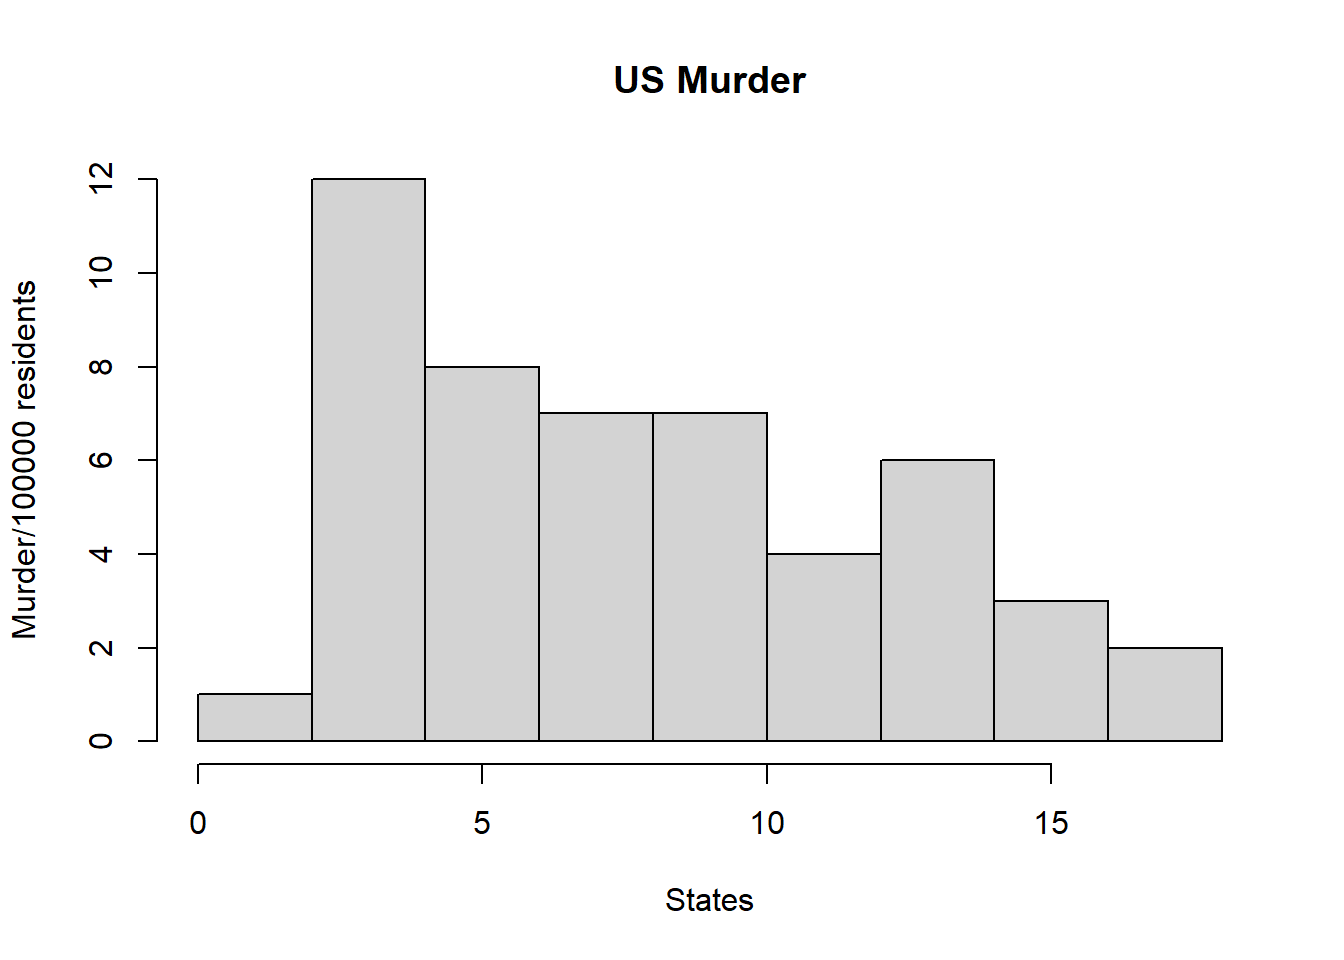
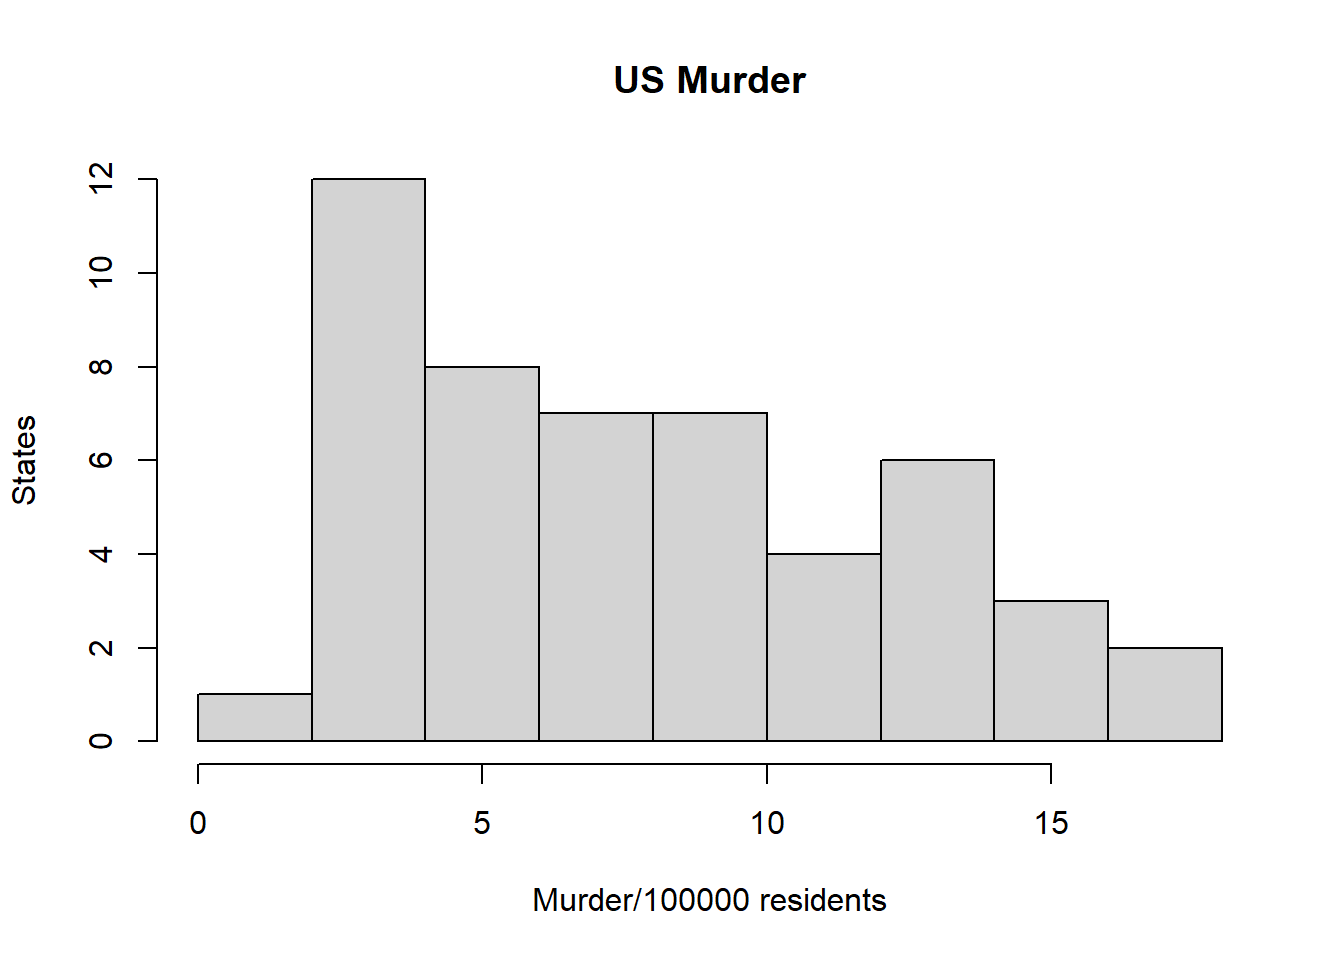
Correct a typo in Murder

Changed region(s): [[0.4062, 0.9062, 0.6562, 0.9688], [0.0, 0.2812, 0.0312, 0.6875]]

diff --git a/docs/Journal.html b/docs/Journal.html
@@ -386,7 +386,7 @@ names(dat)</code></pre>
 <div id="problem-5" class="section level3">
 <h3>Problem 5</h3>
 <p>Draw a histogram of <code>Murder</code> with proper labels and title.</p>
-<pre class="r"><code>hist(dat$Murder, main=&quot;US Murder&quot;, xlab=&quot;States&quot;, ylab=&quot;Murder/100000 residents&quot;)</code></pre>
+<pre class="r"><code>hist(dat$Murder, main=&quot;US Murder&quot;, xlab=&quot;Murder/100000 residents&quot;, ylab=&quot;States&quot;)</code></pre>
 <p><img src="Journal_files/figure-html/unnamed-chunk-5-1.png" width="672" /></p>
 </div>
 <div id="problem-6" class="section level3">
